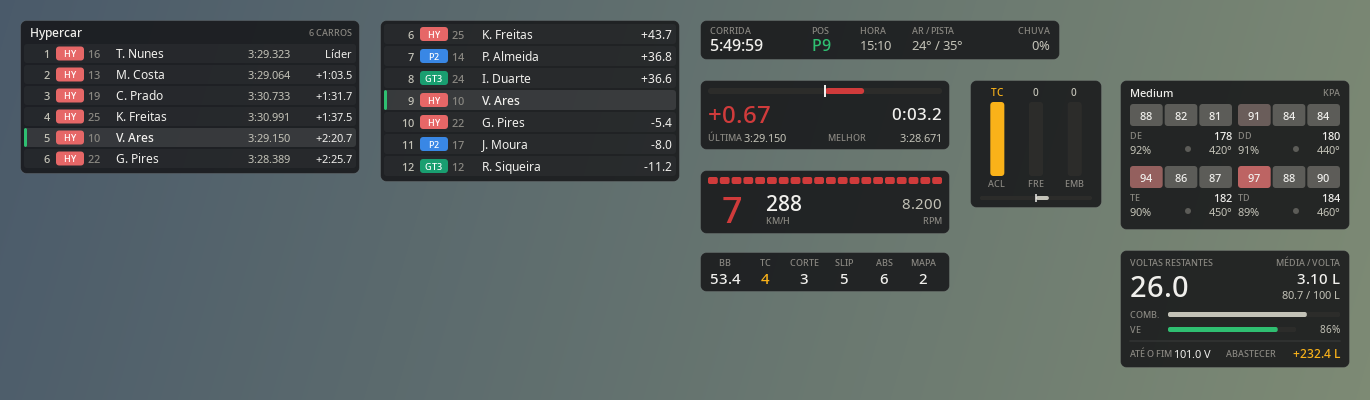
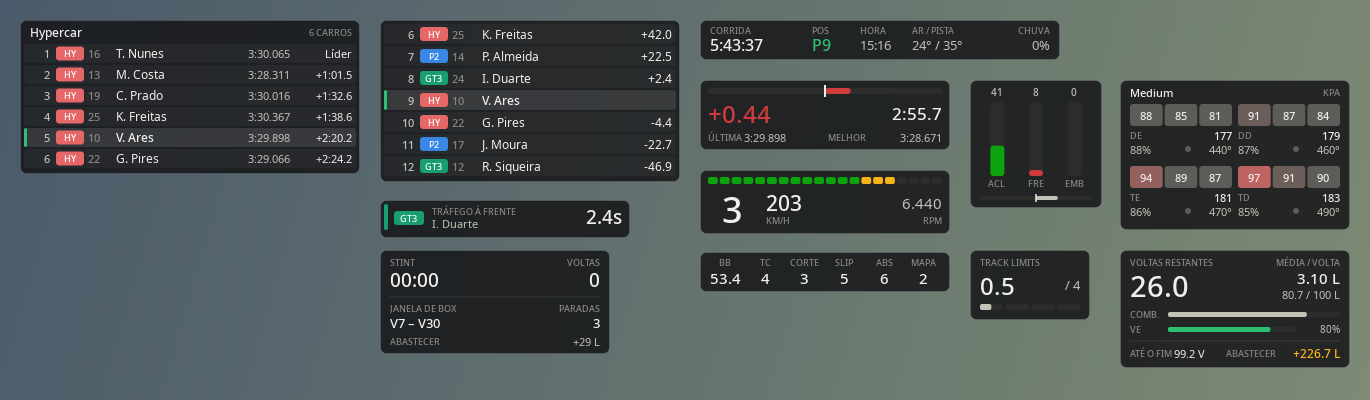
feat(widgets): stint e estratégia
Closes #14

diff --git a/dmt_overlay/widgets/stint.py b/dmt_overlay/widgets/stint.py
@@ -1,0 +1,61 @@
+from __future__ import annotations
+
+from PySide6.QtCore import QRectF
+from PySide6.QtGui import QPainter
+
+from .. import tema
+from ..calculos.formatacao import duracao
+from .base import DIR, WidgetOverlay, rotulo, texto
+
+
+class Stint(WidgetOverlay):
+    nome = "stint"
+    titulo = "Stint e estratégia"
+    largura = 230
+    altura = 104
+    posicao_padrao = (1640, 470)
+
+    def preparar(self, quadro):
+        e = quadro.estrategia
+        return (
+            int(e.tempo_stint),
+            e.voltas_stint,
+            e.volta_atual,
+            e.janela_inicio,
+            e.janela_fim,
+            e.paradas,
+            round(e.abastecer_litros),
+            round(e.abastecer_energia * 100),
+            e.valido,
+            quadro.combustivel.usa_energia,
+        )
+
+    def desenhar(self, p: QPainter, dados) -> None:
+        tempo, voltas, atual, inicio, fim, paradas, litros, energia, valido, usa_energia = dados
+        rotulo(p, QRectF(10, 6, 100, 12), "Stint")
+        texto(p, QRectF(10, 18, 110, 24), duracao(tempo), tema.TEXTO, 14, True)
+        rotulo(p, QRectF(120, 6, 100, 12), "Voltas", DIR)
+        texto(p, QRectF(120, 18, 100, 24), str(voltas), tema.TEXTO, 14, True, DIR)
+
+        p.setPen(tema.BORDA)
+        p.drawLine(10, 47, self.largura - 10, 47)
+
+        rotulo(p, QRectF(10, 52, 120, 12), "Janela de box")
+        if not valido:
+            texto(p, QRectF(10, 64, 210, 18), "Calculando após 2 voltas…", tema.TEXTO_APAGADO, 8.5)
+            return
+        if paradas == 0:
+            texto(p, QRectF(10, 64, 210, 18), "Sem parada até o fim", tema.BOM, 9.5, True)
+            return
+        if fim <= atual:
+            janela, cor = "Parar agora", tema.CRITICO
+        elif inicio <= atual:
+            janela, cor = f"Aberta até V{fim}", tema.ALERTA if fim - atual <= 2 else tema.BOM
+        else:
+            janela, cor = f"V{inicio} – V{fim}", tema.TEXTO
+        texto(p, QRectF(10, 64, 140, 18), janela, cor, 10, True)
+        rotulo(p, QRectF(150, 52, 70, 12), "Paradas", DIR)
+        texto(p, QRectF(150, 64, 70, 18), str(paradas), tema.TEXTO, 10, True, DIR)
+        rotulo(p, QRectF(10, 84, 60, 14), "Abastecer")
+        valor = f"+{litros} L" + (f"  ·  VE +{energia}%" if usa_energia and energia > 0 else "")
+        texto(p, QRectF(70, 84, 150, 14), valor, tema.TEXTO_SECUNDARIO, 8.5, False, DIR)

diff --git a/scripts/previa.py b/scripts/previa.py
@@ -9,6 +9,7 @@ from PySide6.QtWidgets import QApplication
 sys.path.insert(0, str(Path(__file__).resolve().parents[1]))
 
 from dmt_overlay.calculos.combustivel import CalculadoraCombustivel  # noqa: E402
+from dmt_overlay.calculos.estrategia import CalculadoraEstrategia  # noqa: E402
 from dmt_overlay.calculos.multiclasse import alerta_multiclasse  # noqa: E402
 from dmt_overlay.config import Config  # noqa: E402
 from dmt_overlay.provedor import Quadro  # noqa: E402
@@ -27,6 +28,7 @@ LAYOUT = {
     "combustivel": (1120, 250),
     "track_limits": (970, 250),
     "multiclasse": (380, 200),
+    "stint": (380, 250),
 }
 
 
@@ -48,7 +50,11 @@ def main() -> None:
     estado = fonte.ler()
     estado.jogador.volta = 3
     estado.jogador.combustivel = 90 - 3 * 3.1
-    quadro = Quadro(estado, calc.atualizar(estado), 0.0)
+    resumo = calc.atualizar(estado)
+    estrategia = CalculadoraEstrategia()
+    estrategia.atualizar(estado, resumo)
+    estrategia._inicio_tempo -= 2533
+    quadro = Quadro(estado, resumo, 0.0, estrategia.atualizar(estado, resumo))
 
     config = Config(Path(tempfile.mkdtemp()) / "config.json")
     largura, altura = round(1370 * escala), round(400 * escala)

diff --git a/dmt_overlay/widgets/__init__.py b/dmt_overlay/widgets/__init__.py
@@ -8,8 +8,9 @@ from .pedais import Pedais
 from .pneus import Pneus
 from .relativo import Relativo
 from .sessao import Sessao
+from .stint import Stint
 from .track_limits import TrackLimits
 
-WIDGETS = (Relativo, Classificacao, Delta, Motor, Pedais, Combustivel, Pneus, Sessao, Eletronica, TrackLimits, Multiclasse)
+WIDGETS = (Relativo, Classificacao, Delta, Motor, Pedais, Combustivel, Pneus, Sessao, Eletronica, TrackLimits, Multiclasse, Stint)
 
 __all__ = ["WIDGETS"]

diff --git a/README.md b/README.md
@@ -31,6 +31,7 @@
 | **Sessão** | Tipo de sessão, tempo ou voltas restantes, posição, hora na pista, temperatura e chuva. |
 | **Eletrônica** | Balanço de freio, TC, corte e slip do TC, ABS e mapa de motor. |
 | **Track limits** | Pontos de track limits acumulados e quanto falta para a punição. |
+| **Stint e estratégia** | Tempo e voltas do stint, janela de box (primeira e última volta para parar), paradas restantes e quanto abastecer de combustível e energia virtual. |
 | **Alerta multiclasse** | Só aparece quando precisa: carro mais rápido de outra classe chegando por trás, ou tráfego mais lento logo à frente. |
 
 ## Instalação

diff --git a/CHANGELOG.md b/CHANGELOG.md
@@ -8,6 +8,7 @@ Todas as mudanças relevantes do projeto. O formato segue o [Keep a Changelog](h
 
 - Widget de track limits com barra até a punição.
 - Alerta multiclasse: carro mais rápido chegando e tráfego mais lento à frente.
+- Widget de stint e estratégia: janela de box, paradas restantes e quanto abastecer.
 - Aviso na bandeja quando sai versão nova (pode ser desligado no menu).
 
 ## [0.1.0] - 2026-10-30
